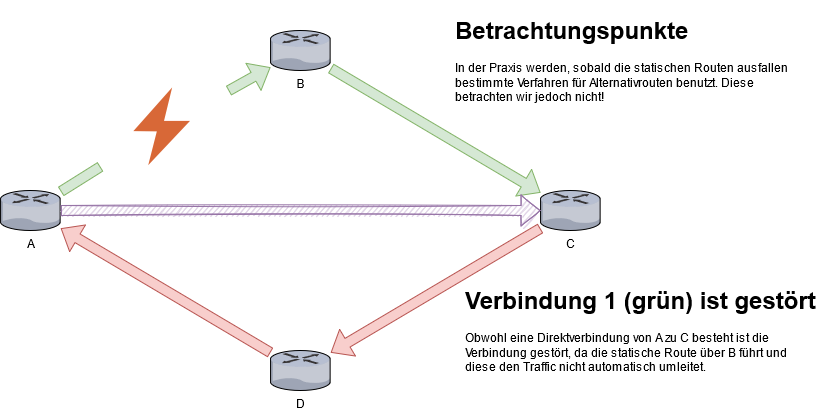
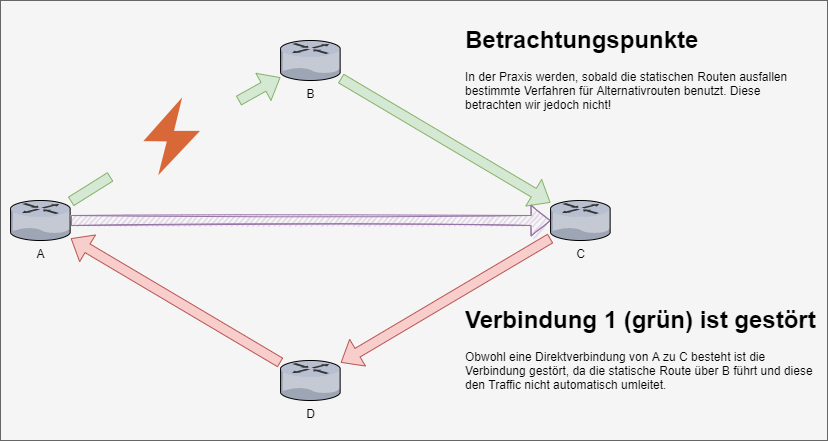
:sparkles: Added Pictures for Static Routing Thanks to @henningxtro

diff --git a/index.html b/index.html
@@ -221,13 +221,27 @@
 				Hierbei wird das Netzwerk <b>192.168.55.0/24</b> über die Adresse <b>192.168.1.254</b> über den Adapter <b>eth1</b> erreichbar gemacht
 				<br>
 				<br>
-				Somit sollten wir mit folgendem Befehl auf Router A eine statische Route zu Router B einrichten
+				Somit sollen die entfernten Netze erreichbar gemacht werden
+
+			</section>
+			<section>
+				<h2>Beispiel am Router A</h2>
+				<img src="ressources/images/StatischesRouting/StatischesRoutingMehrRouter.png">
 				<pre>
 					<code data-trim data-noescape>
-						IN DIE BILDER MÜSSEN IPS FUCK
+						A : ip route add 10.10.30.0/24 via 172.16.250.2 dev eth1
+						A : ip route add 10.10.20.0/24 via 172.16.250.2 dev eth1
 			  		</code>
 				</pre>
-				</section>
+			</section>
+			<section>
+				<h2>Konkrete Problemstellung</h2>
+				<img height="20%" src="ressources/images/StatischesRouting/StatischesRoutingMehrRouterFragestellungOhneLoesung.png">
+			</section>
+			<section>
+				<h2>Konkrete Problemstellung - Lösung</h2>
+				<img height="20%" src="ressources/images/StatischesRouting/StatischesRoutingMehrRouterFragestellung.png">
+			</section>
 			<section>
 				<h1>Error beim Statischen Routing</h1>
 				<img height="600px" src="ressources/images/StatischesRouting/StatischesRoutingError1.png">
@@ -237,6 +251,24 @@
 	<div class="slides" id="Dynamisches Routing">
 		<section>
 			<h1>Dynamisches Routing</h1>
+		</section>
+		<section>
+			<h3>Grundlegende Funktionsweise des Dynamischen Routings</h3>
+			<ul>
+				<li>a</li>
+				<li>a</li>
+				<li>a</li>
+				<li>a</li>
+			</ul>
+		</section>
+		<section>
+			<h3>Grundlegende Funktionsweise des Dynamischen Routings</h3>
+			<ul>
+				<li>a</li>
+				<li>a</li>
+				<li>a</li>
+				<li>a</li>
+			</ul>
 		</section>
 	</div>
 	<div class="slides" id="Routing-Protokolle im Vergleich">
